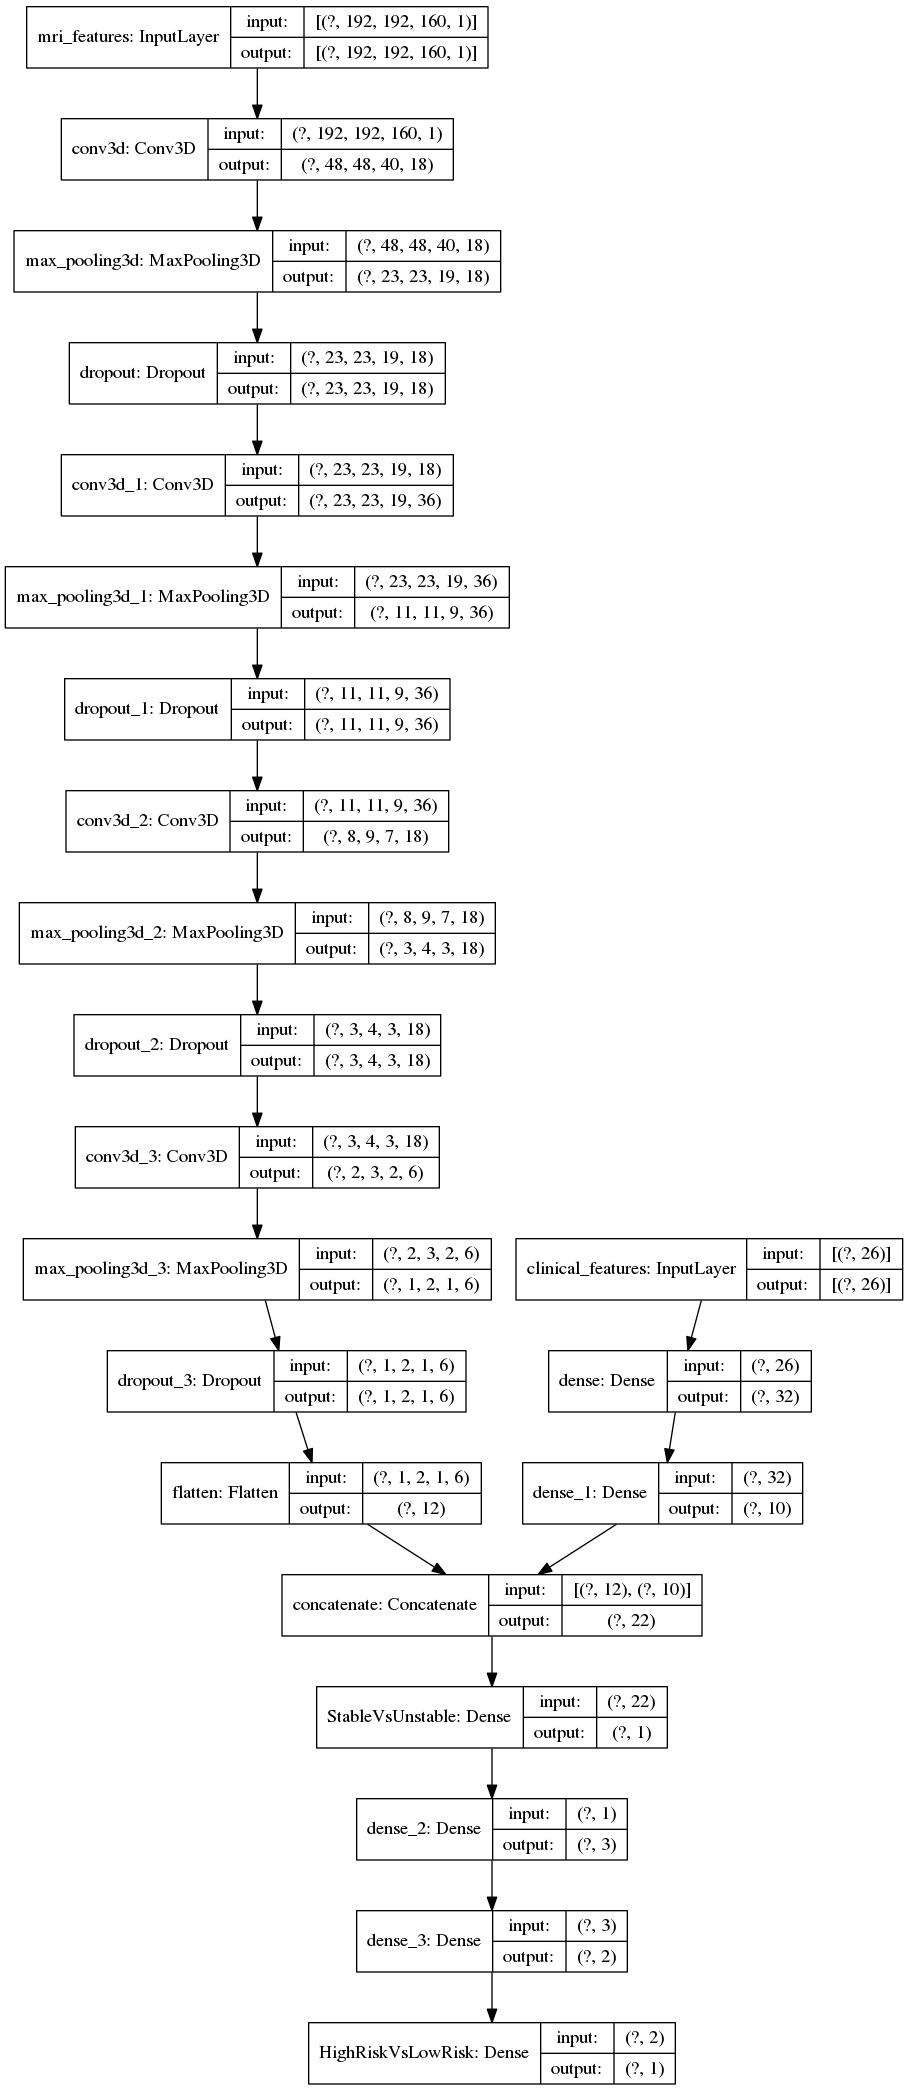
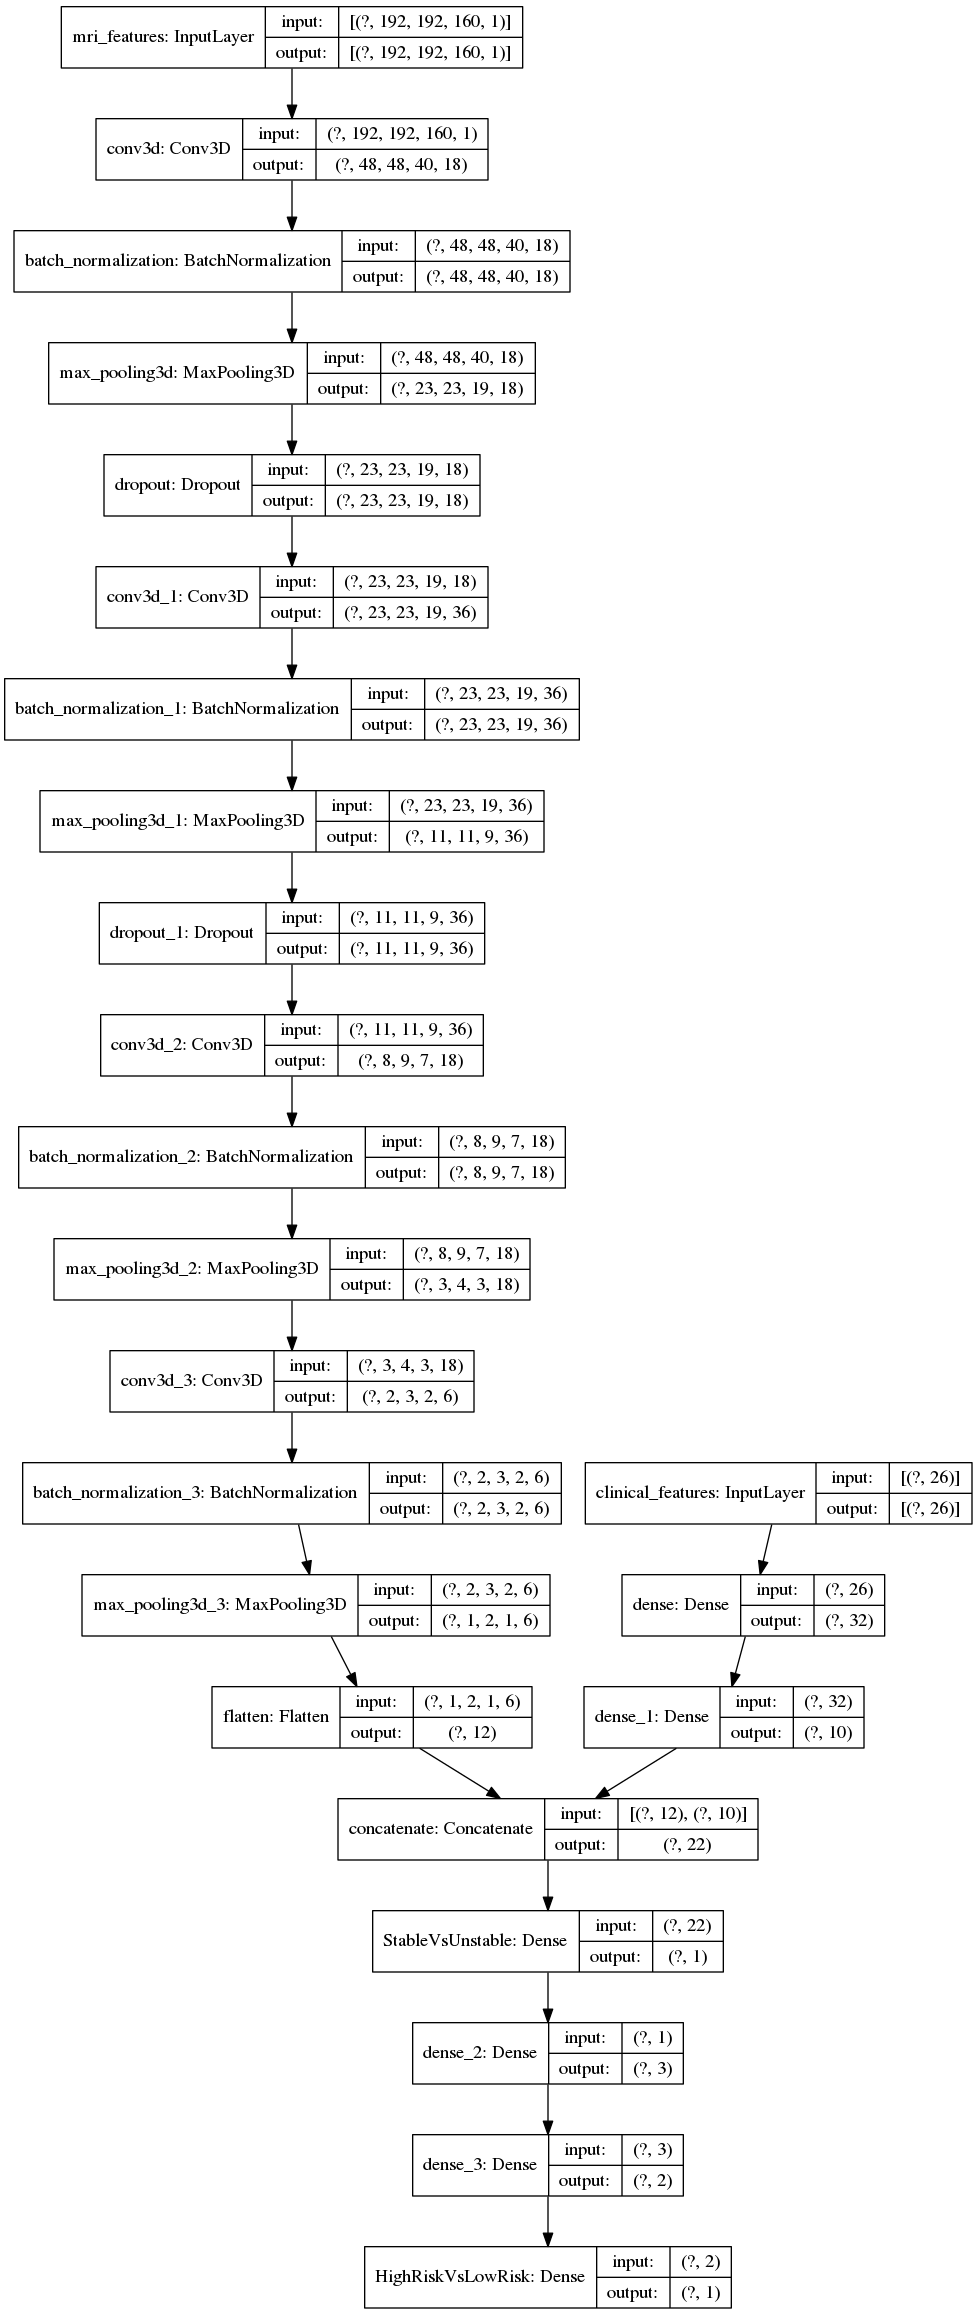
- Optimial model parameters\n - Seaborn added for better visualisations

Changed region(s): [[0.0, 0.0, 1.0, 1.0]]

diff --git a/utils/model.py b/utils/model.py
@@ -1,50 +1,56 @@
 import tensorflow as tf
-from tensorflow import keras
-from tensorflow.keras.layers import Input, Dense, Flatten, Conv3D, Dropout, MaxPooling3D, concatenate
-from tensorflow.keras.losses import CategoricalCrossentropy, BinaryCrossentropy, MSE
-from tensorflow.keras.metrics import categorical_accuracy, binary_accuracy, Recall
+from tensorflow.keras import Model
+from tensorflow.keras.layers import Input, Dense, Flatten, Conv3D, Dropout, MaxPooling3D, concatenate, BatchNormalization
+from tensorflow.keras.losses import binary_crossentropy, MSE
+from tensorflow.keras.metrics import binary_accuracy, Recall, AUC
 from tensorflow.keras.optimizers import Adam
-  
-def CNN_Model(input_shapes, output_classes, learning_rate=0.001, dropout_rate=0.1):
+from tensorflow.keras.regularizers import l2
+
+def CNN_Model(input_shapes, output_classes, learning_rate=0.001, dropout_rate=0.1, clinical_regularizer=0.01, risk_regularizer=0.01):
   
   input_mri = Input(shape=input_shapes['mri'], name='mri_features')
   input_clinical = Input(shape=input_shapes['clinical'], name='clinical_features')
   
   convlayer_1 = Conv3D(18, kernel_size=(13, 11, 11), activation='elu', padding='same', strides=4)(input_mri)
-  max_pool_1 = MaxPooling3D(pool_size=(3, 3, 3), strides=2)(convlayer_1)
+  normalised_batch1 = BatchNormalization()(convlayer_1)
+  max_pool_1 = MaxPooling3D(pool_size=(3, 3, 3), strides=2)(normalised_batch1)
   dropout_1 = Dropout(dropout_rate)(max_pool_1)
   
   convlayer_2 = Conv3D(36, kernel_size=(6, 5, 5), activation='elu', padding='same')(dropout_1)
-  max_pool_2 = MaxPooling3D(pool_size=(3, 3, 3), strides=2)(convlayer_2)
+  normalised_batch2 = BatchNormalization()(convlayer_2)
+  max_pool_2 = MaxPooling3D(pool_size=(3, 3, 3), strides=2)(normalised_batch2)
   dropout_2 = Dropout(dropout_rate)(max_pool_2)
   
   convlayer_3 = Conv3D(18, kernel_size=(4, 3, 3), activation='elu')(dropout_2)
-  max_pool_3 = MaxPooling3D(pool_size=(3, 3, 3), strides=2)(convlayer_3)
+  normalised_batch3 = BatchNormalization()(convlayer_3)
+  max_pool_3 = MaxPooling3D(pool_size=(3, 3, 3), strides=2)(normalised_batch3)
   
   convlayer_4 = Conv3D(6, kernel_size=(2, 2, 2), activation='elu')(max_pool_3)
-  max_pool_4 = MaxPooling3D(pool_size=(1, 1, 1), strides=2)(convlayer_4)
+  normalised_batch4 = BatchNormalization()(convlayer_4)
+  max_pool_4 = MaxPooling3D(pool_size=(1, 1, 1), strides=2)(normalised_batch4)
   
   mri_fc = Flatten()(max_pool_4)
   
-  denselayer_1 = Dense(32, activation='elu')(input_clinical)
-  clinical_fc = Dense(10, activation='elu')(denselayer_1)
+  denselayer_1 = Dense(32, activation='elu', kernel_regularizer=l2(clinical_regularizer))(input_clinical)
+  
+  clinical_fc = Dense(10, activation='elu', kernel_regularizer=l2(clinical_regularizer))(denselayer_1)
   
   mixed_layer = concatenate([mri_fc, clinical_fc])
   
   output_pvs = Dense(output_classes['pvs'], activation='sigmoid', name='StableVsUnstable')(mixed_layer)
   
-  dense8 = Dense(3, activation='elu')(output_pvs)
-  dense9 = Dense(2, activation='elu')(dense8)
+  dense8 = Dense(3, activation='elu', kernel_regularizer=l2(risk_regularizer))(output_pvs)
+  dense9 = Dense(2, activation='elu', kernel_regularizer=l2(risk_regularizer))(dense8)
   
   output_risk = Dense(output_classes['risk'], activation='sigmoid', name='HighRiskVsLowRisk')(dense9)
   
-  model = keras.Model(inputs=[input_mri, input_clinical], outputs=[output_pvs, output_risk], name="MRI_CLINICAL_CNN")
+  model = Model(inputs=[input_mri, input_clinical], outputs=[output_pvs, output_risk], name="MRI_CLINICAL_CNN")
   model.compile(
     loss={
-    'StableVsUnstable':BinaryCrossentropy(),
+    'StableVsUnstable':binary_crossentropy,
     'HighRiskVsLowRisk':MSE},
     optimizer=Adam(learning_rate=learning_rate),
     metrics={
     'StableVsUnstable':binary_accuracy,
-    'HighRiskVsLowRisk':Recall()})
+    'HighRiskVsLowRisk':binary_accuracy})
   return model

diff --git a/train.py b/train.py
@@ -4,62 +4,38 @@ from utils.data_loader import MRI_Loader
 from utils.callbacks import History, Scheduler
 from utils.preprocess import Stratified_KFolds_Generator
 from utils.model import CNN_Model
+from utils.generate_figures import PlotLoss, PlotAcc
 
 from tensorflow.keras.utils import to_categorical
 from tensorflow.keras.utils import plot_model
 
 import numpy as np
-import matplotlib.pyplot as plt
 import tensorflow as tf
 
 from tensorflow.keras.callbacks import EarlyStopping
-from tensorflow.keras import optimizers
-
-def PlotLoss(fold):
-  _filename = "figures/loss" + str(fold)
-  plt.figure()
-  title_string = "Loss - Fold " + str(fold)
-  plt.title(title_string)
-  plt.xlabel("Epoch")
-  plt.ylabel("Loss")
-  epochAxis = np.arange(1, LossHistory.epoch_iter + 1,1)
-  plt.plot(epochAxis, LossHistory.epoch_losses, label='Train')
-  plt.plot(epochAxis, LossHistory.epoch_val_losses, label='Test')
-  plt.legend()
-  plt.savefig(_filename + ".png")
   
-def PlotAcc(fold):
-  _filename = "figures/acc" + str(fold)
-  plt.figure()
-  title_string = "Accuracy - Fold " + str(fold)
-  plt.title(title_string)
-  plt.xlabel("Epoch")
-  plt.ylabel("Accuracy")
-  epochAxis = np.arange(1, LossHistory.epoch_iter + 1,1)
-  plt.plot(epochAxis, LossHistory.epoch_acc, label='Train')
-  plt.plot(epochAxis, LossHistory.epoch_val_acc, label='Test')
-  plt.legend()
-  plt.savefig(_filename + ".png")
-  
-def RecordFoldInformation(fold):
-  PlotLoss(fold)
-  PlotAcc(fold)
-  fold_accuracy.append(LossHistory.epoch_acc[-1])
-  fold_val_accuracy.append(LossHistory.epoch_val_acc[-1])
+def RecordFoldInformation(fold, LossHistory):
+  PlotLoss(fold, LossHistory)
+  PlotAcc(fold, LossHistory)
+  fold_accuracy.append(LossHistory.epoch_acc_pvs[-1])
+  fold_val_accuracy.append(LossHistory.epoch_val_acc_pvs[-1])
+  fold_loss.append(LossHistory.epoch_loss_pvs[-1])
+  fold_val_loss.append(LossHistory.epoch_val_loss_pvs[-1])
   
 target_width = 192  #192 #256
 target_height = 192 #192 #256
 target_depth = 160  #160 #166
 
-learning_rate=0.002
-batch_size = 4
-epochs = 20
-output_class_dict = {'class':3, 'pvs':1, 'risk':1} 
-dropout_rate = 0
+output_class_dict = {'class':3, 'pvs':1, 'risk':1}
 load_size = None
+batch_size = 4
+epochs = 10
+learning_rate=0.0015
+dropout_rate = 0.1
+clinical_regularizer=0.05
+risk_regularizer=0.1
 
 k_folds = 4
-
 
 features_shape_dict = {'mri':(target_width,target_height,target_depth,1), 'clinical':26}
 
@@ -76,6 +52,8 @@ print("DATASET SIZE: " + str(dataset_size))
 kGenerator = Stratified_KFolds_Generator(k_folds)
 fold_accuracy = []
 fold_val_accuracy = []
+fold_loss = []
+fold_val_loss = []
 
 fold = 0
 
@@ -107,15 +85,18 @@ for train_index, test_index in kGenerator.split(np.asarray(features['clinical'])
   callbacks = [EarlyStopping(monitor='val_StableVsUnstable_binary_accuracy', patience=5), LossHistory]
   
   # Model training
-  model = CNN_Model(input_shapes=features_shape_dict, output_classes=output_class_dict, learning_rate=learning_rate, dropout_rate=dropout_rate)
+  model = CNN_Model(input_shapes=features_shape_dict, output_classes=output_class_dict, learning_rate=learning_rate, dropout_rate=dropout_rate,
+    clinical_regularizer=clinical_regularizer, risk_regularizer=risk_regularizer)
   if fold == 1: # Model information
     print("\n--- MODEL INFORMATION ---")
     print(model.summary())
     plot_model(model, 'MODEL.png', show_shapes=True)
+  # Display fold number
+  print("\n--- FOLD " + str(fold) + " TRAINING ---")
   print("\n--- TRAINING INFORMATION ---")
   model.fit(train_dataset, epochs=epochs, validation_data=test_dataset, verbose=1, shuffle=True, use_multiprocessing=True, callbacks=callbacks)
   # Generate graphs
-  RecordFoldInformation(k_folds)
+  RecordFoldInformation(fold, LossHistory)
 
 print("\n--- RESULTS ---")
 print("Mean Training Accuracy:",np.mean(np.asarray(fold_accuracy)))

diff --git a/utils/callbacks.py b/utils/callbacks.py
@@ -13,18 +13,30 @@ class History(Callback):
   def on_train_begin(self, logs={}):
     self.batch_iter = 0
     self.epoch_iter = 0
-    self.epoch_losses = []
-    self.epoch_val_losses = []
-    self.epoch_acc = []
-    self.epoch_val_acc = []
+    self.epoch_loss_pvs, self.epoch_loss_risk = [],[]
+    self.epoch_val_loss_pvs, self.epoch_val_loss_risk = [],[]
+    self.epoch_acc_pvs, self.epoch_acc_risk = [],[]
+    self.epoch_val_acc_pvs, self.epoch_val_acc_risk = [],[]
   
   def on_epoch_end(self, epoch, logs={}):
-    loss = logs.get('loss')
-    val_loss = logs.get('val_loss')
-    acc = logs.get('categorical_accuracy')
-    val_acc = logs.get('val_categorical_accuracy')
-    self.epoch_losses.append(loss)
-    self.epoch_val_losses.append(val_loss)
-    self.epoch_acc.append(acc)
-    self.epoch_val_acc.append(val_acc)
+    loss_pvs = logs.get('StableVsUnstable_loss')
+    val_loss_pvs = logs.get('val_StableVsUnstable_loss')
+    acc_pvs = logs.get('StableVsUnstable_binary_accuracy')
+    val_acc_pvs = logs.get('val_StableVsUnstable_binary_accuracy')
+    
+    loss_risk = logs.get('HighRiskVsLowRisk_loss')
+    val_loss_risk = logs.get('val_HighRiskVsLowRisk_loss')
+    acc_risk = logs.get('HighRiskVsLowRisk_recall')
+    val_acc_risk = logs.get('val_HighRiskVsLowRisk_recall')
+    
+    self.epoch_loss_pvs.append(loss_pvs)
+    self.epoch_val_loss_pvs.append(val_loss_pvs)
+    self.epoch_acc_pvs.append(acc_pvs)
+    self.epoch_val_acc_pvs.append(val_acc_pvs)
+    
+    self.epoch_loss_risk.append(loss_risk)
+    self.epoch_val_loss_risk.append(val_loss_risk)
+    self.epoch_acc_risk.append(acc_risk)
+    self.epoch_val_acc_risk.append(val_acc_risk)
+    
     self.epoch_iter += 1

diff --git a/utils/generate_figures.py b/utils/generate_figures.py
@@ -1,0 +1,37 @@
+#!/usr/bin/env python
+
+import matplotlib.pyplot as plt
+import numpy as np
+import seaborn as sns; sns.set()
+
+def PlotLoss(fold, LossHistory):
+  _filename = "figures/loss" + str(fold)
+  plt.figure()
+  title_string = "Loss - Fold " + str(fold)
+  plt.title(title_string)
+  plt.xlabel("Epoch")
+  plt.ylabel("Loss")
+  epochAxis = np.arange(1, LossHistory.epoch_iter + 1,1)
+  plt.plot(epochAxis, LossHistory.epoch_loss_pvs, label='Train: pMCI vs sMCI')
+  plt.plot(epochAxis, LossHistory.epoch_val_loss_pvs, label='Test: pMCI vs sMCI')
+  plt.plot(epochAxis, LossHistory.epoch_loss_risk, label='Train: HighRisk vs LowRisk')
+  plt.plot(epochAxis, LossHistory.epoch_val_loss_risk, label='Test: HighRisk vs LowRisk')
+  plt.legend(frameon=False)
+  plt.xticks(epochAxis)
+  plt.savefig(_filename + ".png")
+  
+def PlotAcc(fold, LossHistory):
+  _filename = "figures/acc" + str(fold)
+  plt.figure()
+  title_string = "Accuracy - Fold " + str(fold)
+  plt.title(title_string)
+  plt.xlabel("Epoch")
+  plt.ylabel("Accuracy")
+  epochAxis = np.arange(1, LossHistory.epoch_iter + 1,1)
+  plt.plot(epochAxis, LossHistory.epoch_acc_pvs, label='Train: pMCI vs sMCI')
+  plt.plot(epochAxis, LossHistory.epoch_val_acc_pvs, label='Test: pMCI vs sMCI')
+  plt.plot(epochAxis, LossHistory.epoch_acc_risk, label='Train: HighRisk vs LowRisk')
+  plt.plot(epochAxis, LossHistory.epoch_val_acc_risk, label='Test: HighRisk vs LowRisk')
+  plt.xticks(epochAxis)
+  plt.legend(frameon=False)
+  plt.savefig(_filename + ".png")

diff --git a/utils/data_loader.py b/utils/data_loader.py
@@ -11,8 +11,8 @@ from dltk.io.preprocessing import *
 class MRI_Loader:
   
   def __init__(self, target_shape, load_size=None):
-    self.mri_path = '../ADNI_volumes_custom/'
-    self.csv_path = '../ADNI_clinical_data/LP_ADNIMERGE_CLEANED.csv'
+    self.mri_path = '../ADNI_volumes/'
+    self.csv_path = '../ADNI_clinical/LP_ADNIMERGE_CLEANED.csv'
     self.target_shape = target_shape
     self.load_size = None if load_size == None else load_size
   
